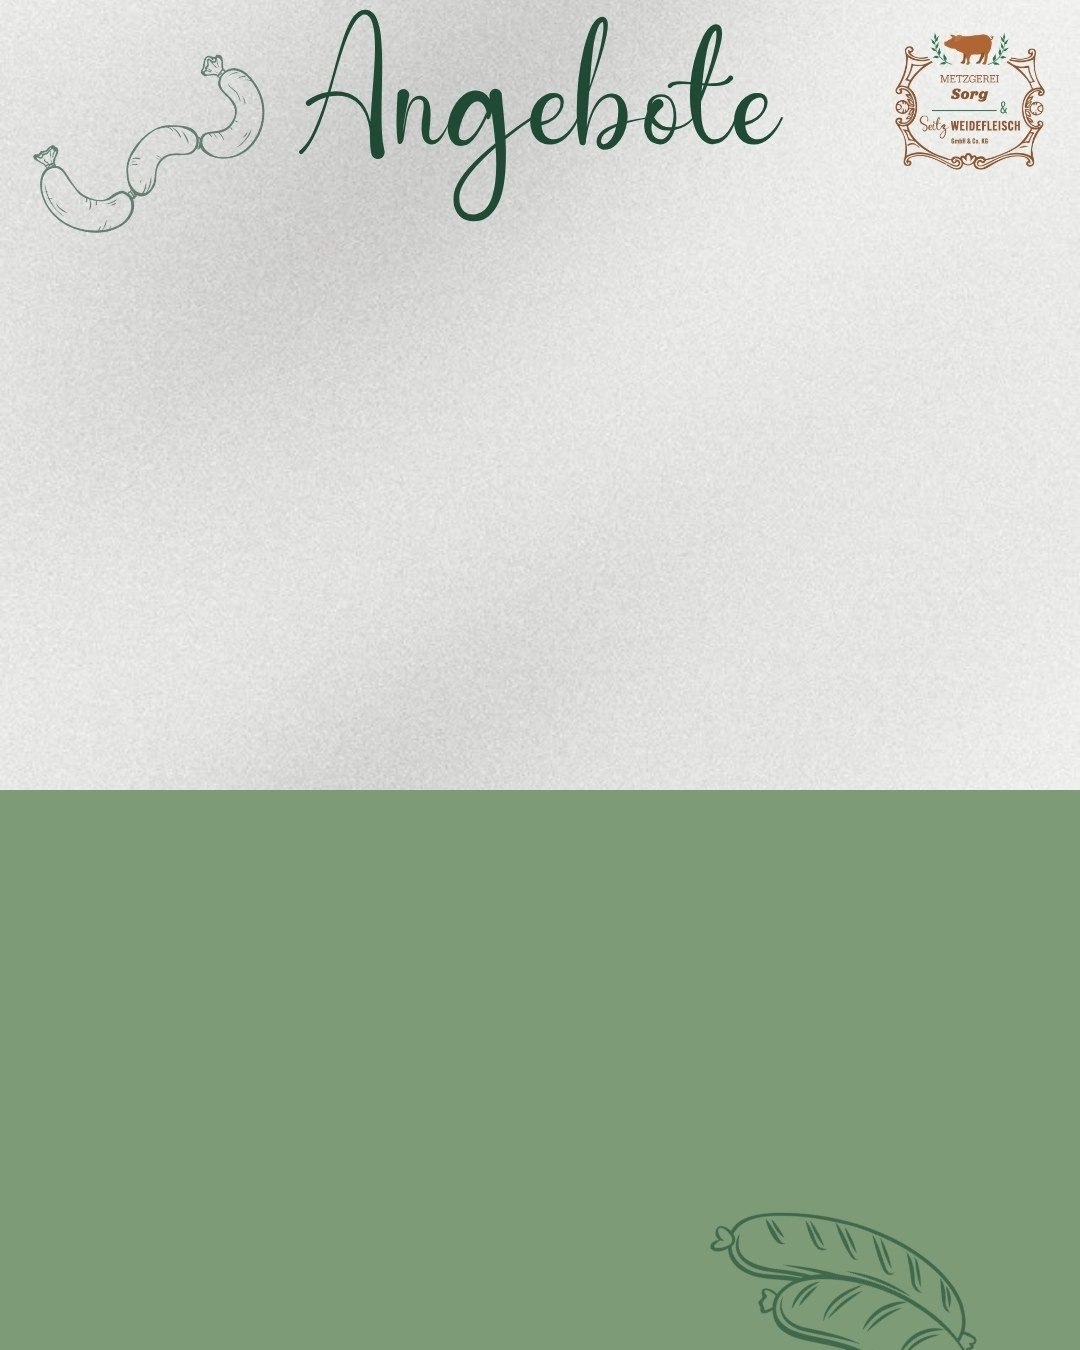
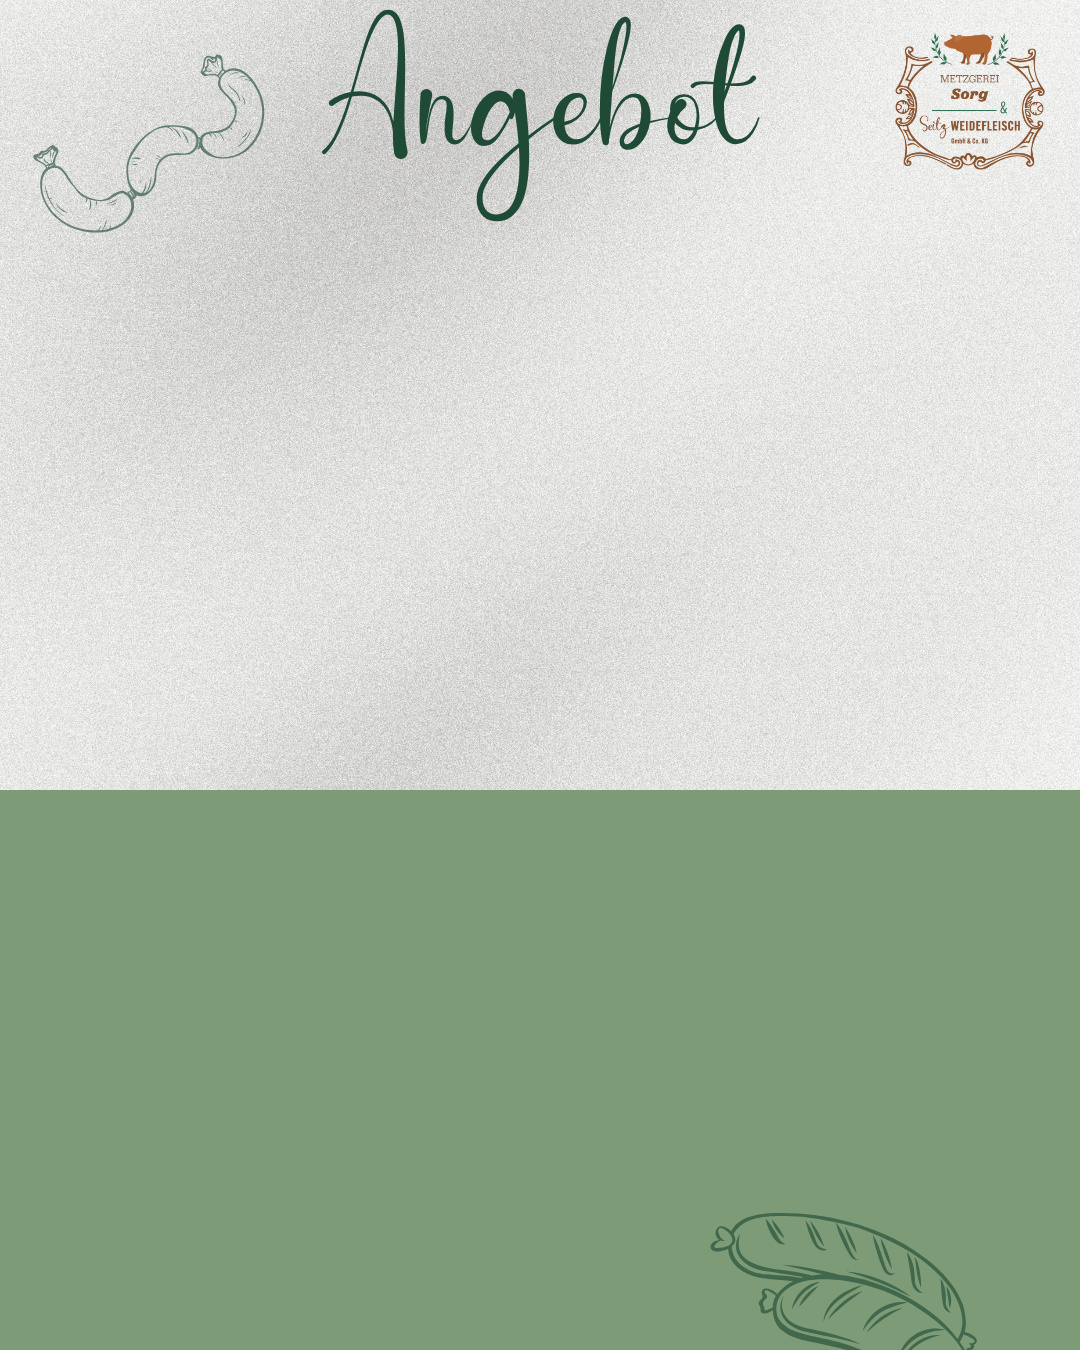
Angebote: neue Hintergründe (Angebot, scharf)
Claude-Session: https://claude.ai/code/session_01LtyoATEaL9bri1V1wDF7N2

Changed region(s): [[0.275, 0.0, 0.7333, 0.1867], [0.825, 0.0311, 0.9778, 0.1244]]

diff --git a/docs/ANGEBOTE.md b/docs/ANGEBOTE.md
@@ -17,7 +17,7 @@ Das TV-Bild läuft im gewählten Zeitraum auf Screen 3 und verschwindet danach v
 | `modules/angebote/renderer.js` | Zeichnet die Folien auf ein Canvas (keine Abhängigkeiten) |
 | `modules/angebote/angebote.css` | Styles des Moduls (neue Designrichtung) |
 | `modules/angebote/vorlagen/<kunde>/preis-angebot.json` | Positionen, Größen, Farben, Schriften je Format |
-| `modules/angebote/vorlagen/<kunde>/bg-*.jpg` | Fester Hintergrund aus Canva (Papier, grüne Fläche, Logo, Würste, „Angebote“) |
+| `modules/angebote/vorlagen/<kunde>/bg-*.jpg` | Fester Hintergrund aus Canva (Papier, grüne Fläche, Logo, Würste, „Angebot“; aus Canva als PNG, gespeichert als JPG q95) |
 | `modules/display/screen3-v2.html` | Neuer Screen 3: Aktionsbilder + laufende Angebote |
 | `supabase/angebote.sql` | Tabellen `angebots_produkte`, `angebote` (bereits angewendet) |
 | `tests/angebote/` | Render- und Oberflächentests (lokal, ohne echte Datenbank) |
